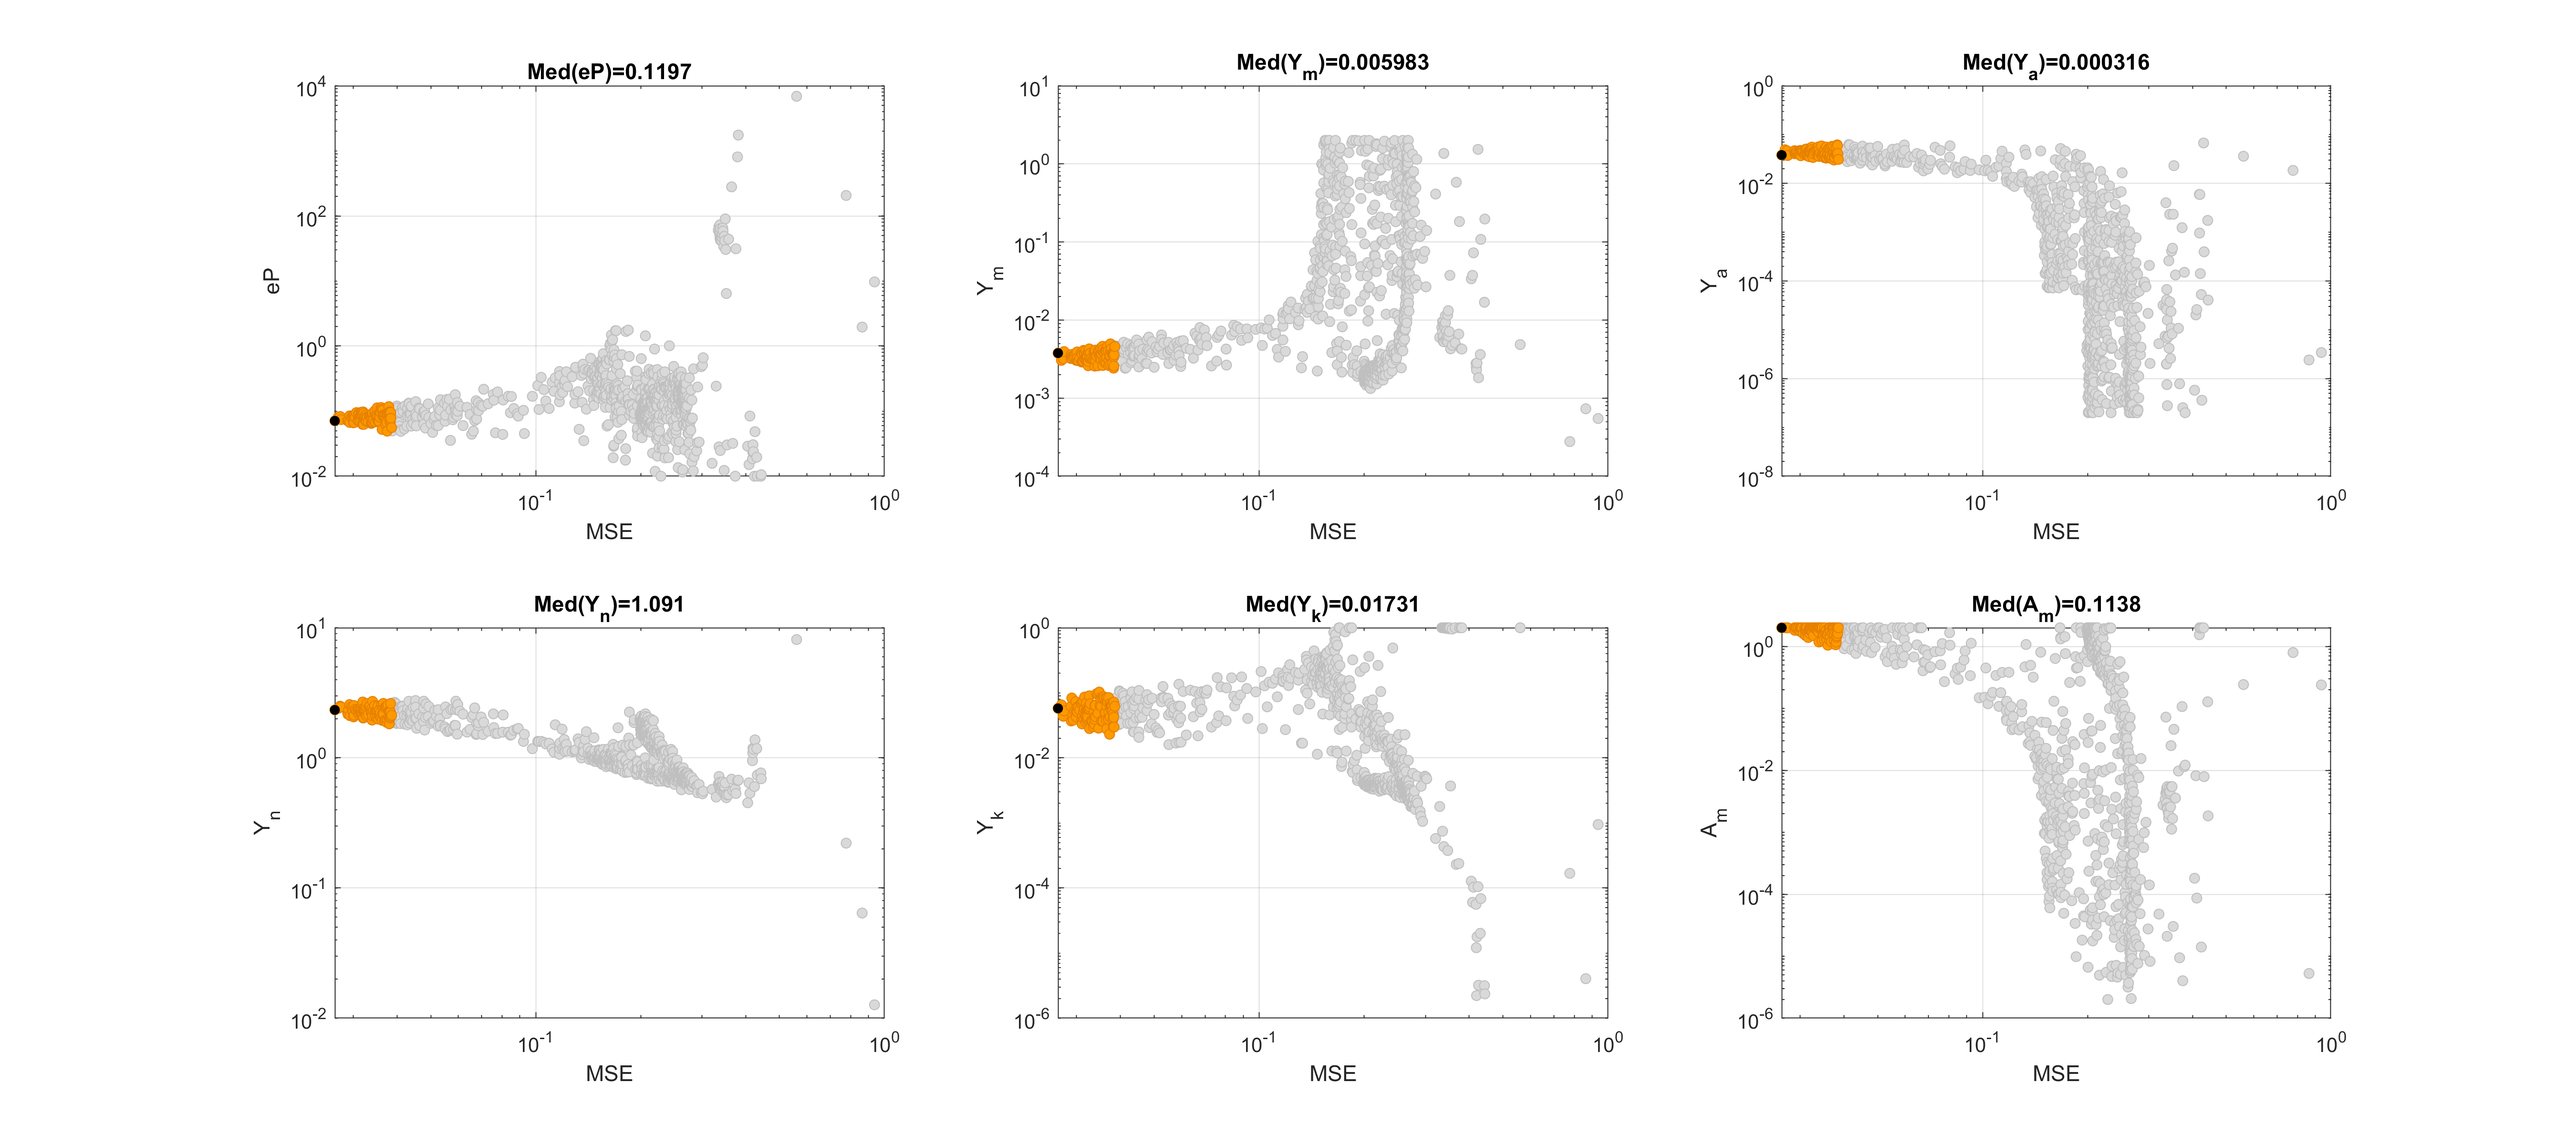
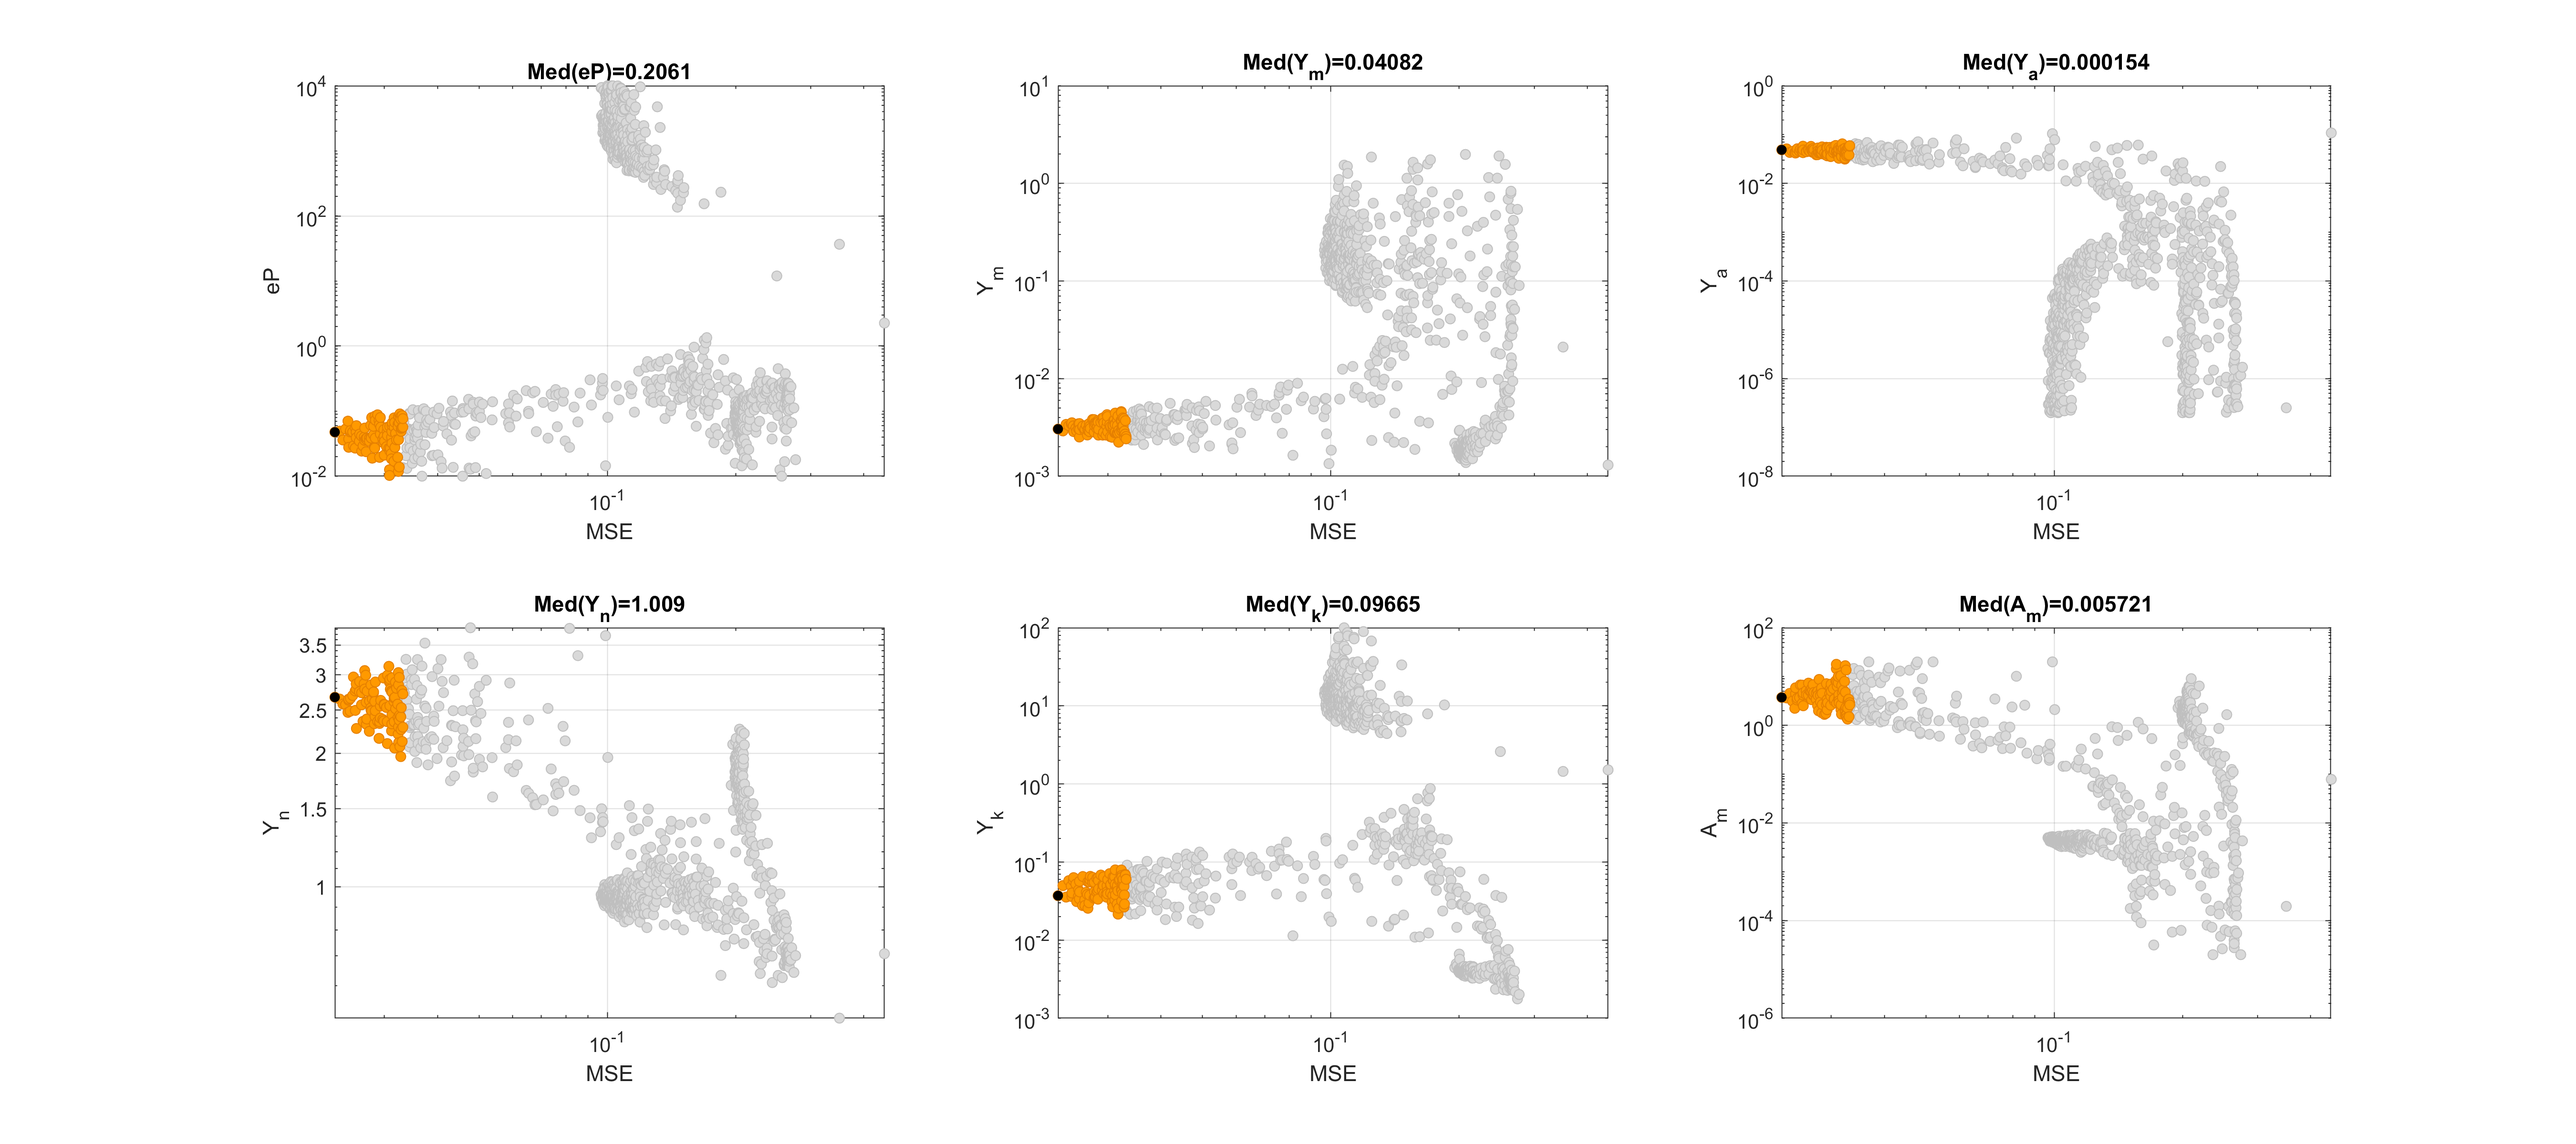
Ninth fitting attempt

diff --git a/RUN_FitMRW.m b/RUN_FitMRW.m
@@ -72,11 +72,11 @@ printAll = 0;   % Flag for printing full random walk
     i = i + 1;
     f(i).par = 'Y_k';
     f(i).cov = 0.1;
-    f(i).lim = [1e-4,100]/100;
+    f(i).lim = [1e-4,100];
     i = i + 1;
     f(i).par = 'A_m';
     f(i).cov = 0.1;
-    f(i).lim = [2e-6,2];
+    f(i).lim = [2e-6,2]*10;
     clear i
 
 %% Run fitting:
